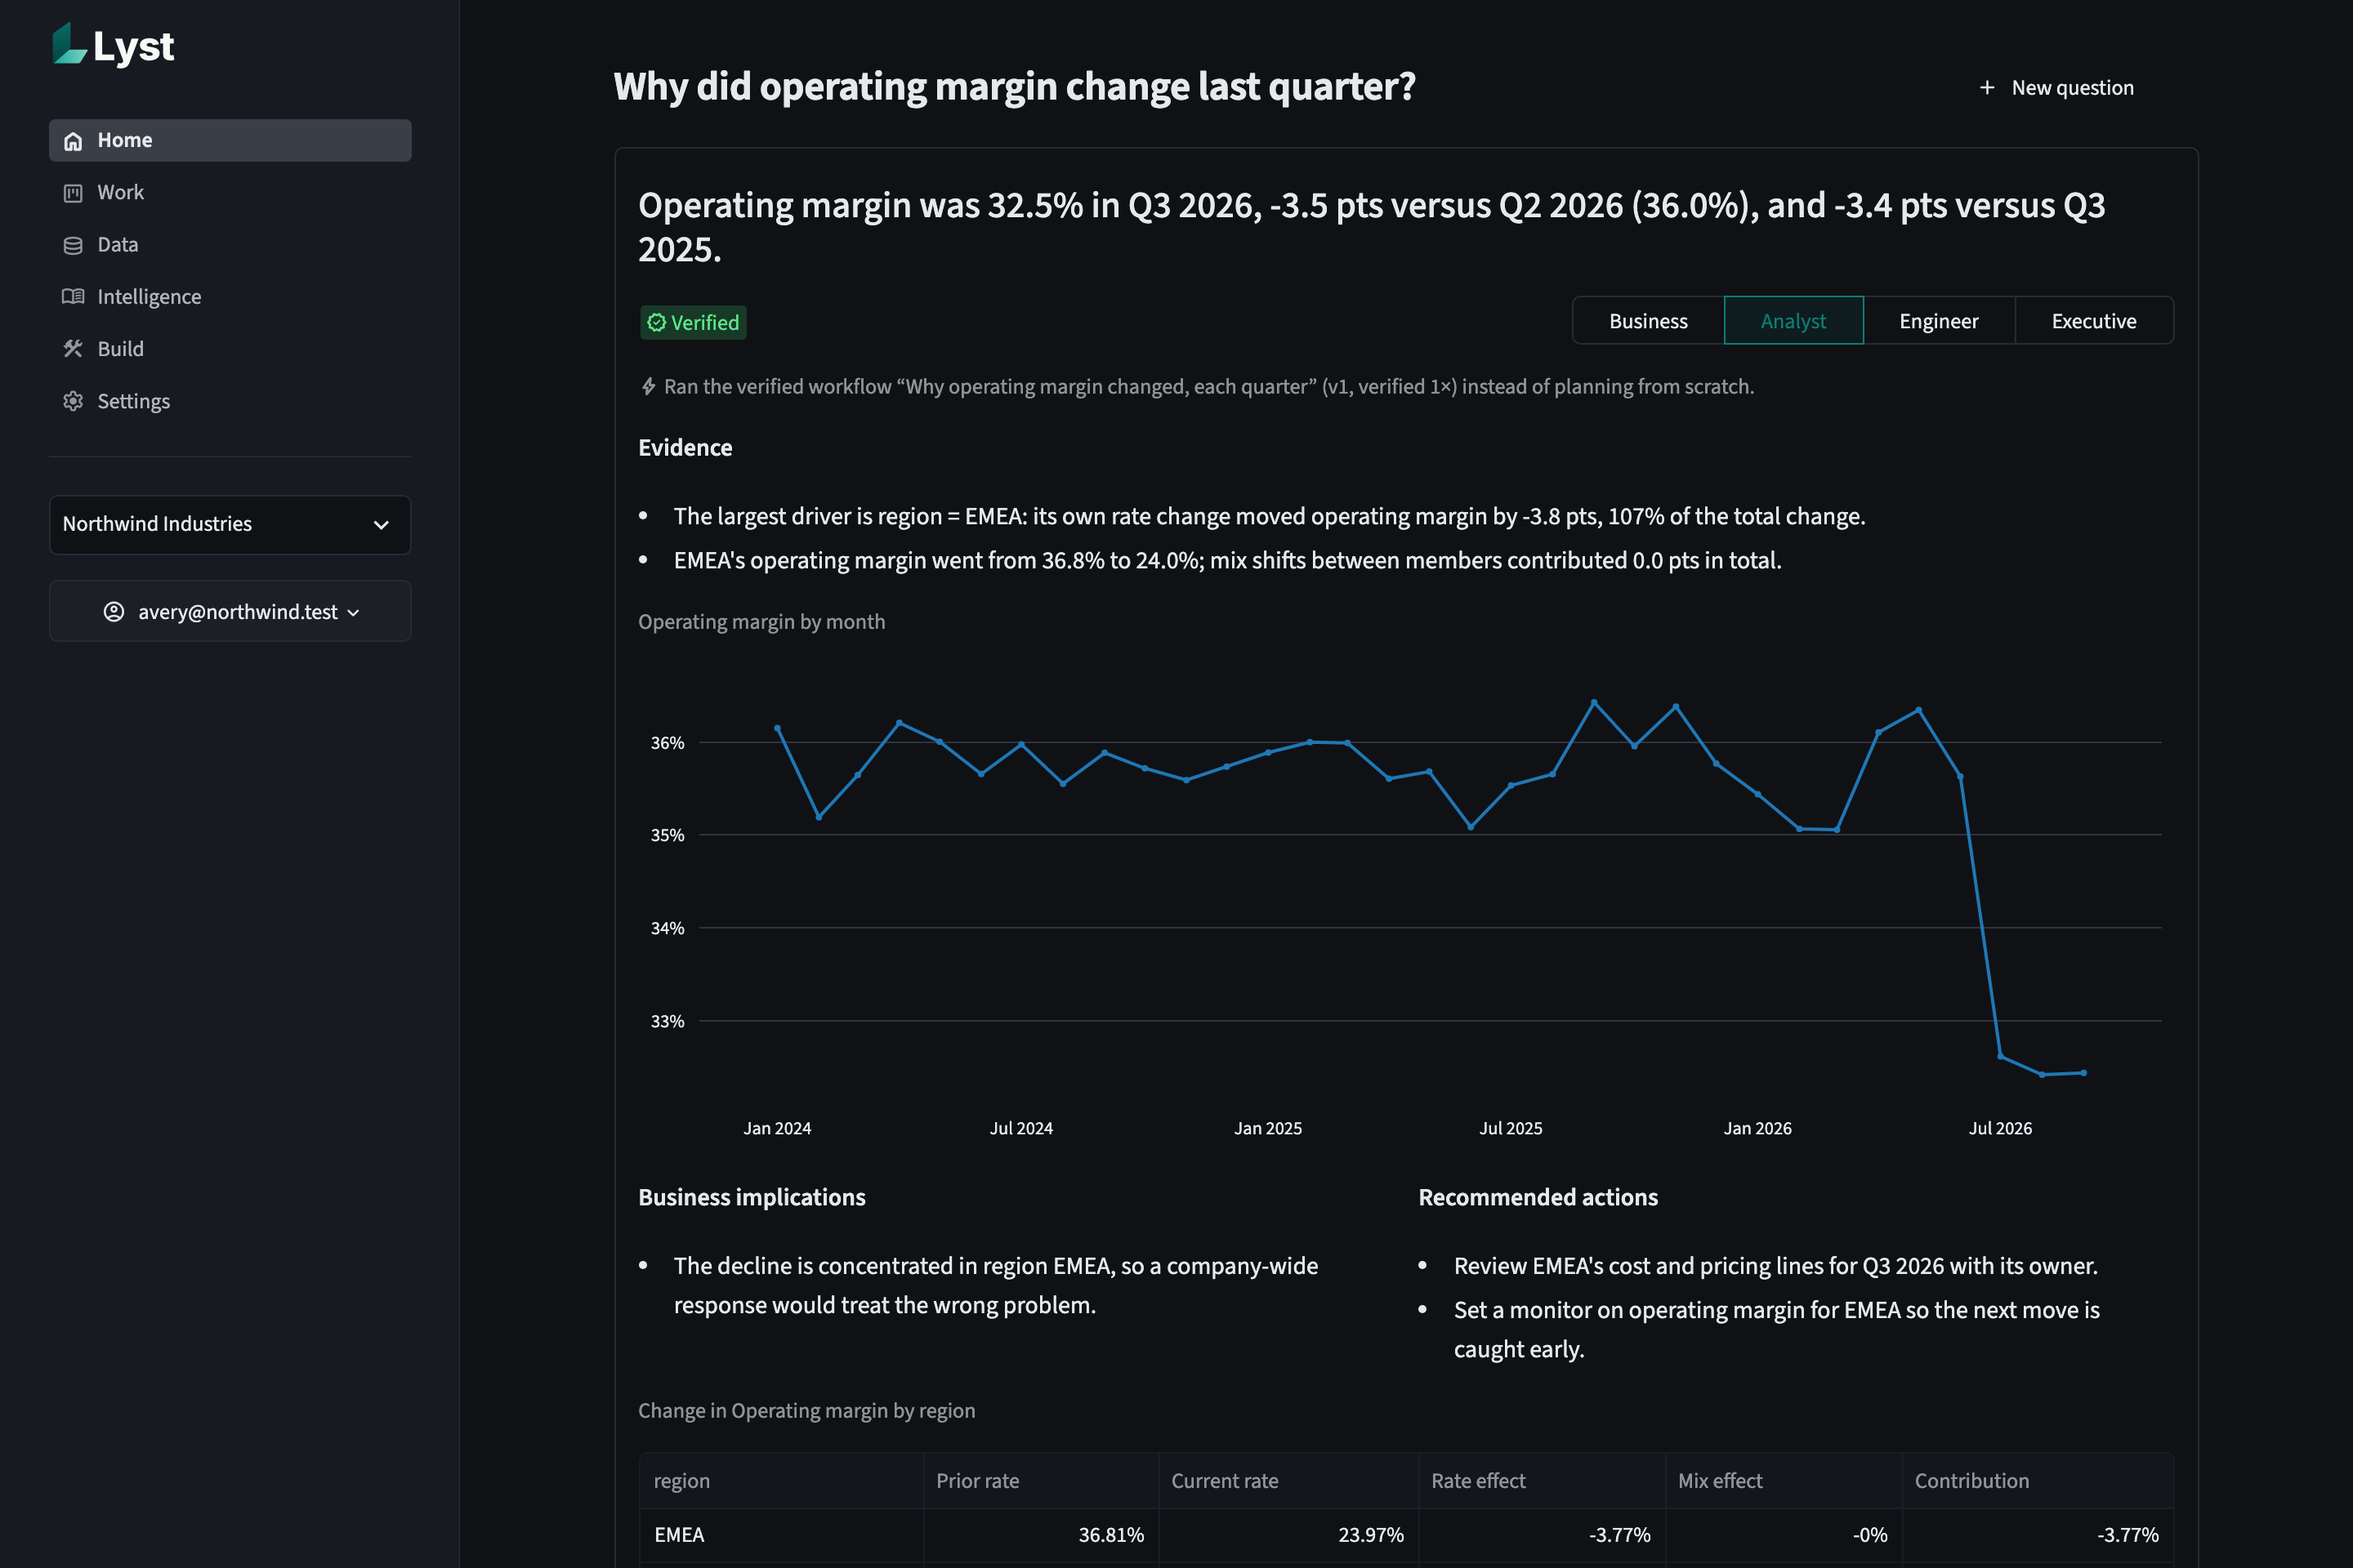
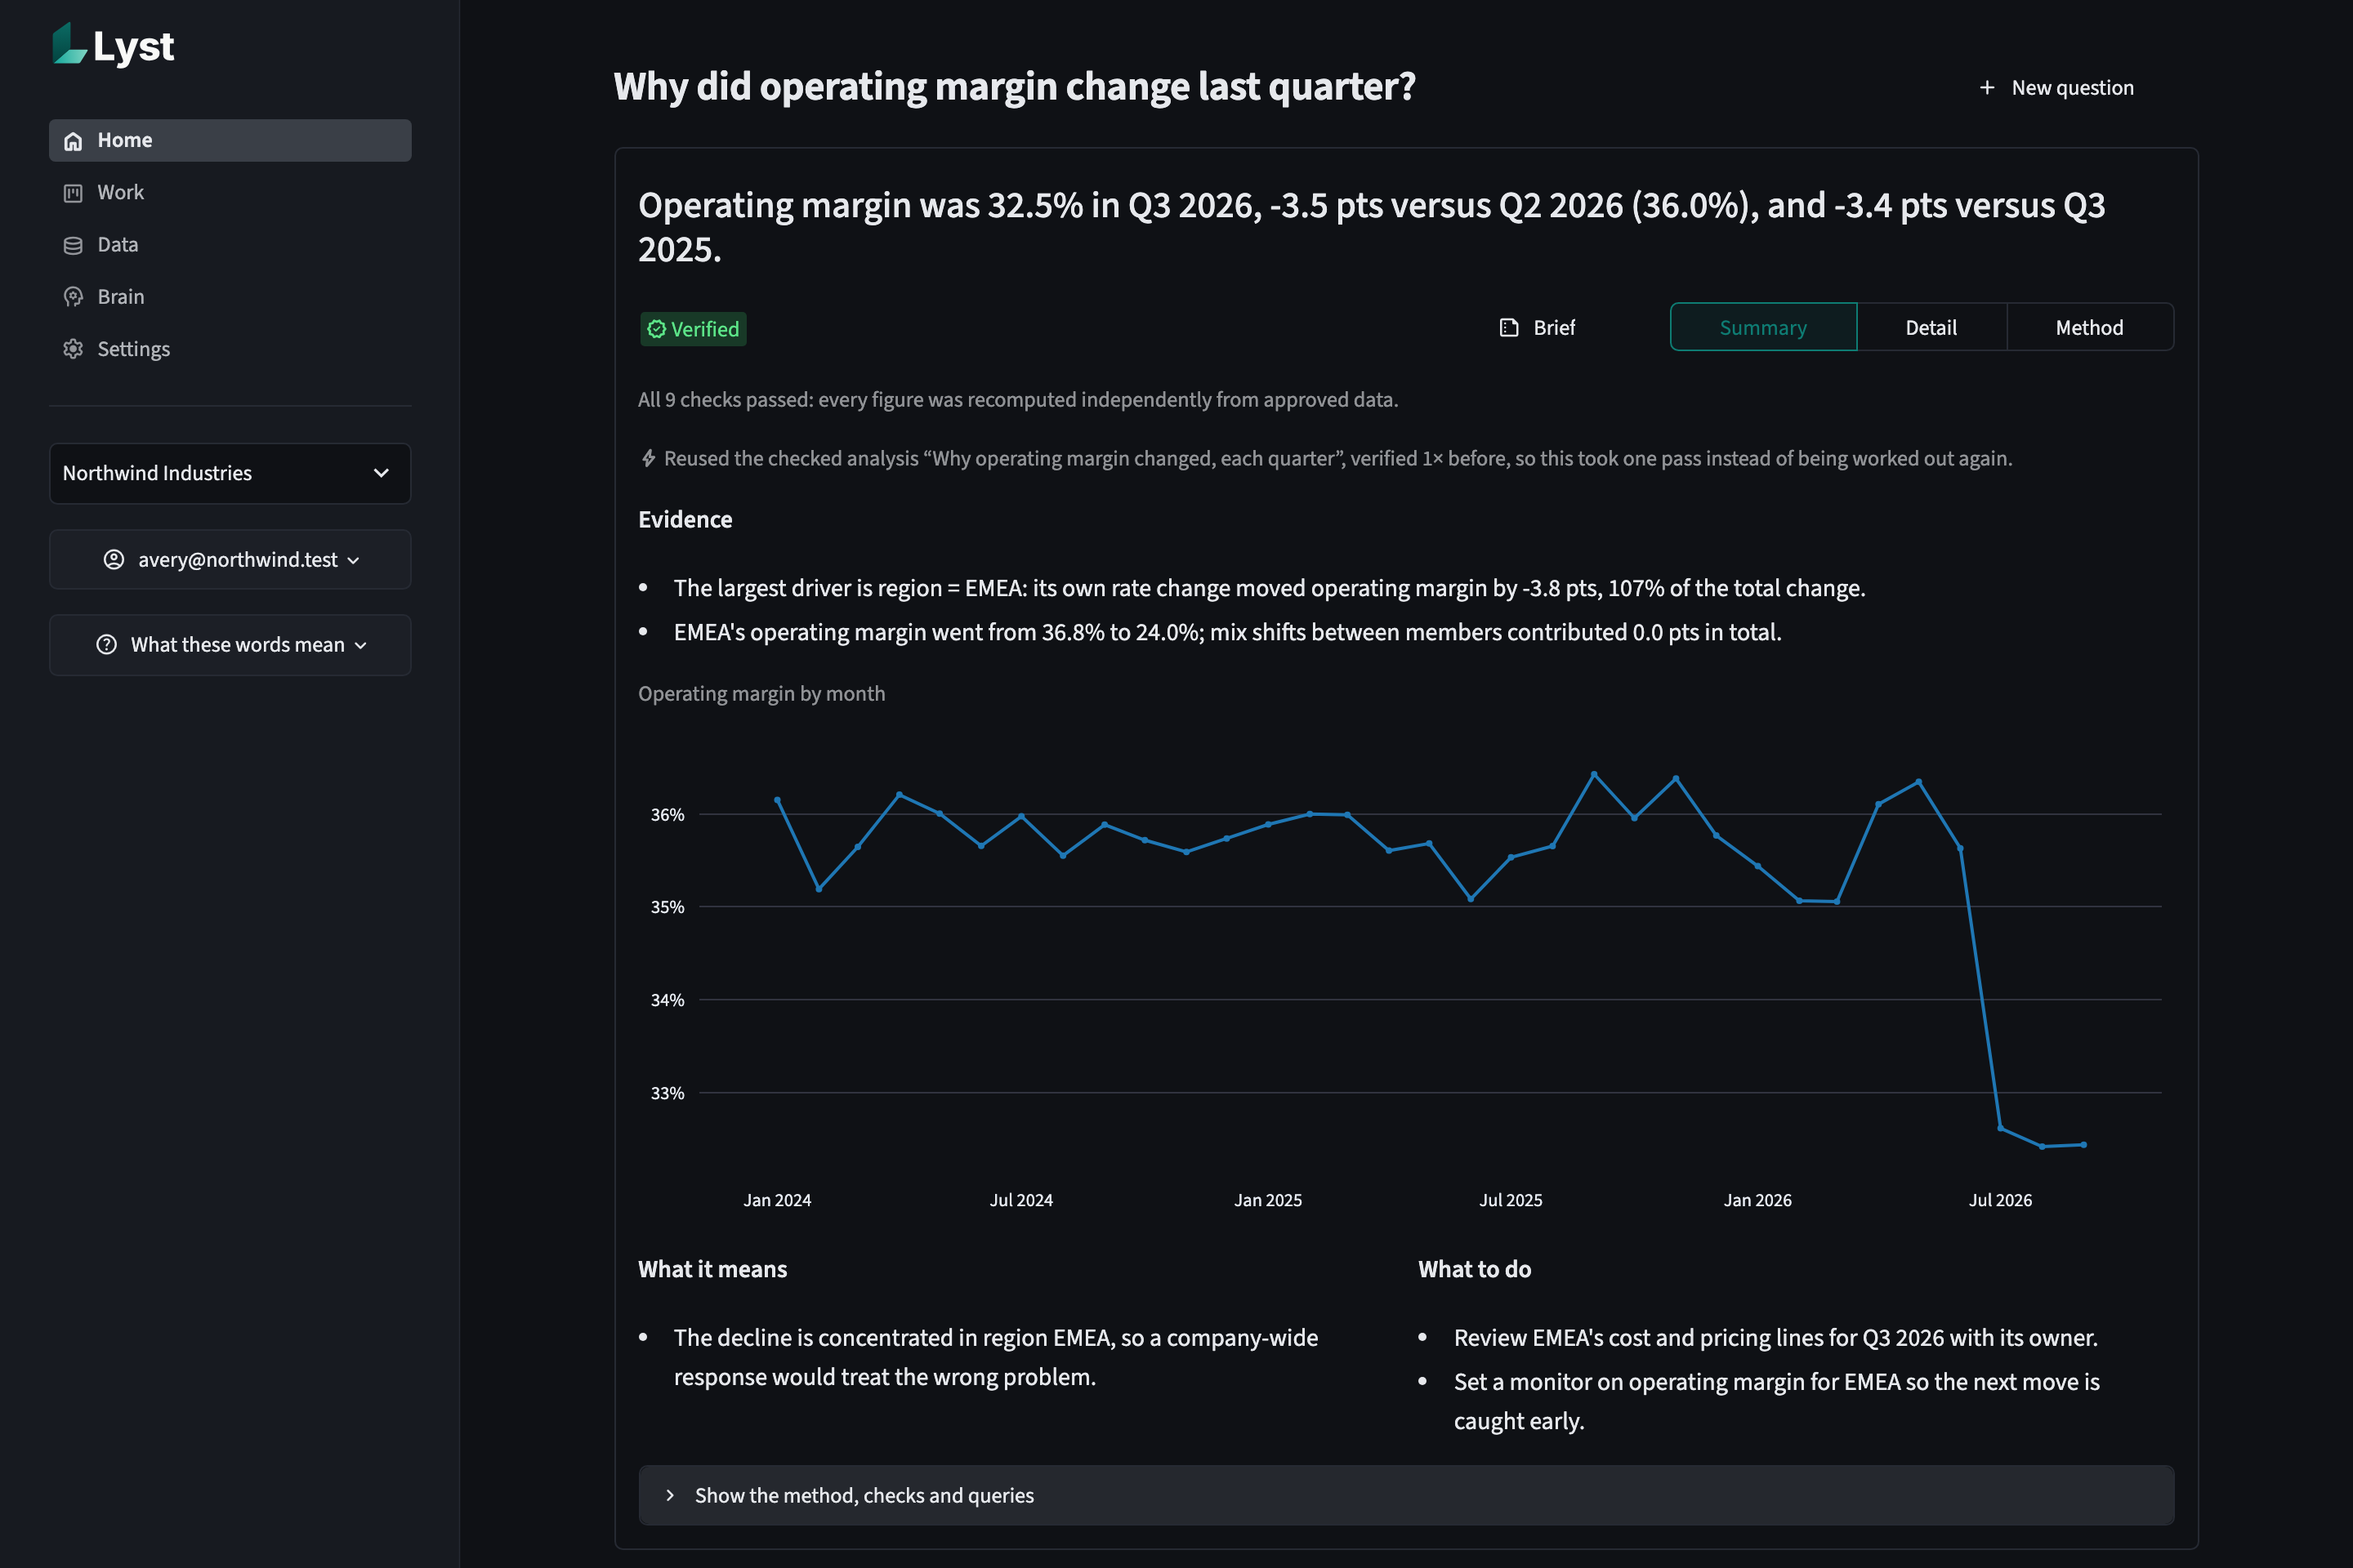
Website: add Home with metric tiles, retake answer screenshots for Summary/Detail/Method (#23) (#26)

diff --git a/site/src/data/content.ts b/site/src/data/content.ts
@@ -229,7 +229,7 @@ export const proof = [
 export const studio = {
   eyebrow: 'From the private preview',
   headline: 'Real output, not a mockup.',
-  lede: 'Unedited screenshots from the private preview, on sample data: a verified answer in the Analyst, and a dashboard Studio built from one sentence, “an operating margin dashboard by region, refreshed weekly.”',
+  lede: 'Unedited screenshots from the private preview, on sample data: Home with this month at a glance, a verified answer, and a dashboard Studio built from one sentence, “an operating margin dashboard by region, refreshed weekly.”',
   stepsLabel: 'How Studio builds a dashboard',
   steps: [
     { icon: 'MessageSquareText', title: 'One sentence', text: 'Metric, breakdown and refresh cadence, in plain language.' },

diff --git a/site/tests/site.spec.ts b/site/tests/site.spec.ts
@@ -174,6 +174,8 @@ test.describe('studio showcase and verification', () => {
     const errors = trackErrors(page);
     await page.goto('/#studio');
     const list = page.getByRole('tablist', { name: 'Product views' });
+    await expect(page.locator('#st-view-home img.light-img')).toBeVisible();
+    await list.getByRole('tab', { name: 'Answer' }).click();
     const answer = page.locator('#st-view-answer img.light-img');
     await answer.scrollIntoViewIfNeeded();
     await expect(answer).toBeVisible();
